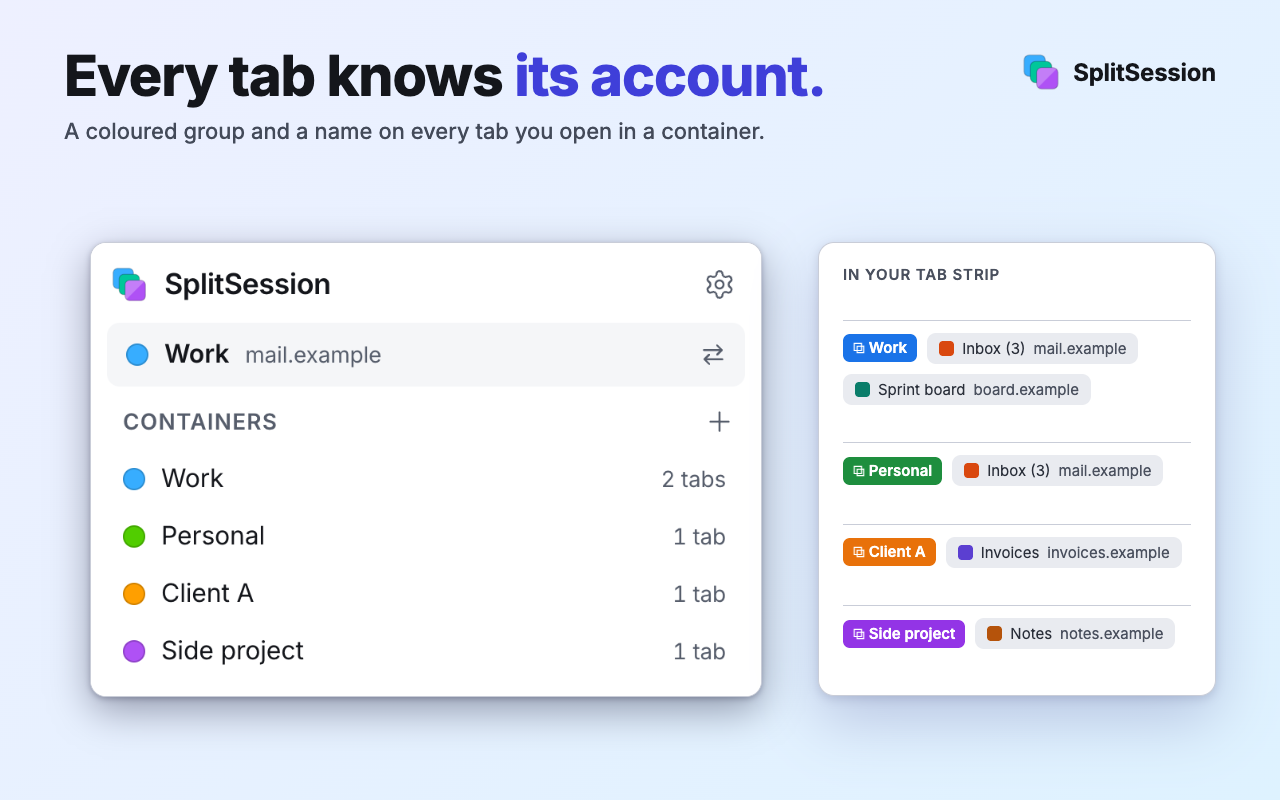
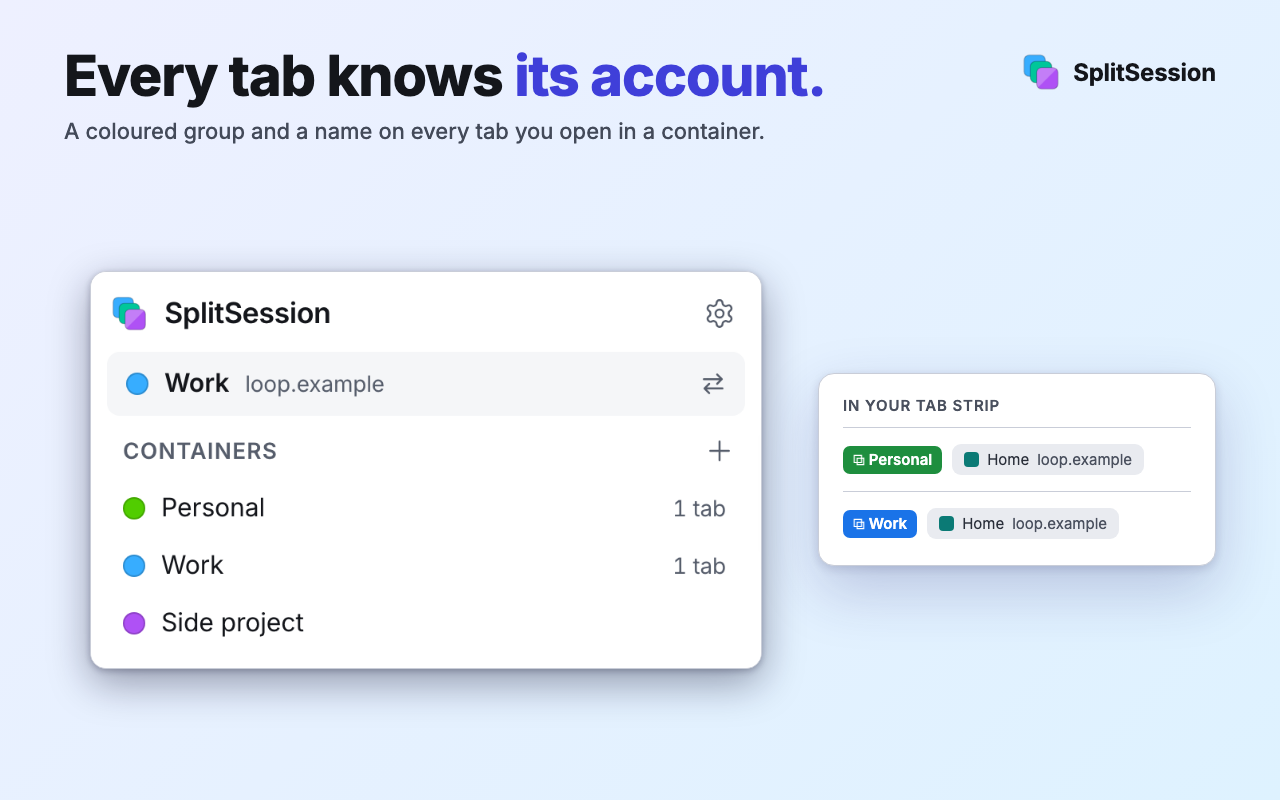
Store screenshots: Loop social-network demo instead of the mail demo; add split view, drop domain rules

Changed region(s): [[0.0625, 0.2812, 0.9688, 0.9062], [0.5312, 0.5938, 0.5625, 0.75], [0.5312, 0.4375, 0.5625, 0.5]]

diff --git a/docs/release/listing-draft.md b/docs/release/listing-draft.md
@@ -36,22 +36,28 @@ Use several accounts of the same site side by side in one Chrome profile. Separa
 ### Store images (Lite)
 
 Generated by `pnpm store:assets` (`scripts/store-assets.mjs`); files in [assets/](assets/). All PNG, 24-bit RGB (no alpha),
-exact sizes. The popup, settings page and held-tab page are the real Lite extension; the sites are invented demo sites
-on `*.example` names (no real brand, logo or trademark); the browser window around them is drawn. Upload order below.
+exact sizes. The popup, settings page, held-tab page and tab titles are the real Lite extension; the site is "Loop", an invented
+demo social network on `loop.example` (no real brand, logo or trademark) with a personal and a brand account; the browser
+window around them is drawn. Upload order below.
 
 | # | File | Size | Caption (headline, then sub-line) |
 | --- | --- | --- | --- |
-| 1 | `screenshot-1-two-accounts.png` | 1280x800 | **Two accounts. One window.** Sign in twice, side by side, in one Chrome profile. |
+| 1 | `screenshot-1-two-accounts.png` | 1280x800 | **Personal and brand. One window.** Both signed in at once, in two tab groups of one Chrome profile. |
 | 2 | `screenshot-2-popup.png` | 1280x800 | **Every tab knows its account.** A coloured group and a name on every tab you open in a container. |
-| 3 | `screenshot-3-settings.png` | 1280x800 | **Simple settings, sensible defaults.** Tab groups, restore after restart, strict mode: one switch each. |
-| 4 | `screenshot-4-domain-rules.png` (dark) | 1280x800 | **Right site, right account.** Open each site in the container you choose, or be asked every time. |
+| 3 | `screenshot-3-split-view.png` | 1280x800 | **Two accounts, side by side.** Chrome's split view, a different account in each half. |
+| 4 | `screenshot-4-settings.png` | 1280x800 | **Simple settings, sensible defaults.** Tab groups, restore after restart, strict mode: one switch each. |
 | 5 | `screenshot-5-restart.png` | 1280x800 | **Comes back after a restart.** Tabs return to their accounts. A tab it is unsure about waits for you. |
 | tile | `promo-small-440x280.png` | 440x280 | SplitSession. Same site, separate logins. (small promo tile, required for ranking) |
 | marquee | `promo-marquee-1400x560.png` | 1400x560 | SplitSession. Same site, separate logins. (optional, used only for featuring) |
 
-Notes: screenshots 1 to 3 and 5 are light, 4 is dark. Screenshot 5 is a real restart of the browser (two look-alike tabs of
-one address make SplitSession hold them, which is what the popup banner and the waiting page show). Captions are marketing
-text outside the extension UI; every claim in them is something the extension does (see the long description).
+Notes: all five are light. In 1, 2, 4 and 5 the tabs sit in the container groups ("⧉ Personal", "⧉ Work"). In 3 the pair
+stands outside the groups and carries the "⧉" mark in its titles, as the extension does for a split-view pair; Chrome's split
+view cannot be driven from the test browser, so two real container tabs are taken out of their groups and composed as a pair
+(the two small badges at the bottom of the halves are drawn). The popup is containers-only: Lite has no agent UI. Screenshot 5
+is a real restart of the browser (two look-alike tabs of one address make SplitSession hold them, which is what the popup banner
+and the waiting page show). The domain-rules picture was dropped (the Store takes five screenshots). The marquee shows Loop
+too; the small tile is a logo and a tagline, so its content did not change. Captions are marketing text outside the extension UI; every claim in
+them is something the extension does (see the long description).
 
 ### Category and language
 
